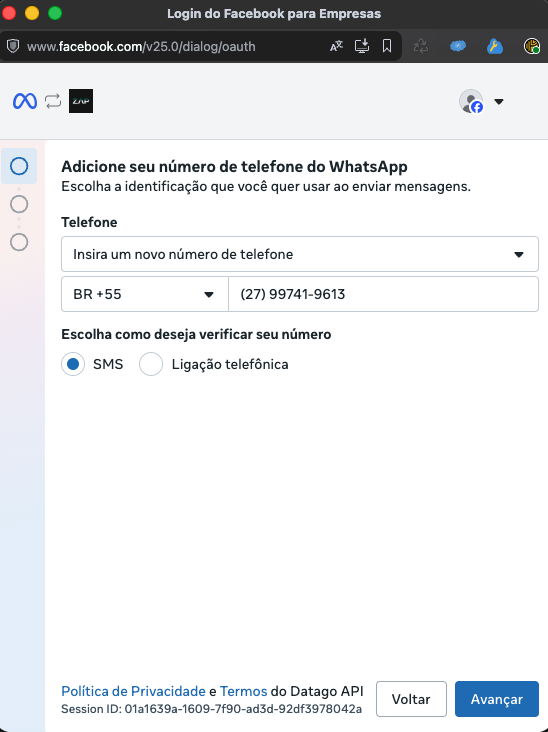
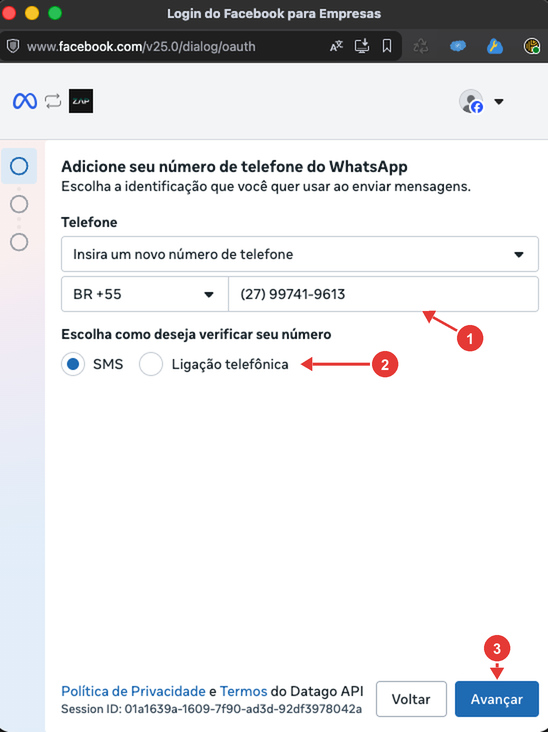
Nitzap Conexão: setas numeradas e tabelas nas imagens de QR Code, API oficial e membros

Changed region(s): [[0.5584, 0.4809, 0.7445, 0.541], [0.7755, 0.4208, 0.8996, 0.4809], [0.8686, 0.8716, 0.9307, 0.9317]]

diff --git a/docs/nitzap/conexao-whatsapp.md b/docs/nitzap/conexao-whatsapp.md
@@ -2,6 +2,8 @@
 
 Cada número de WhatsApp usado no Nitzap é uma **conexão**. Você pode conectar um número de duas formas: lendo um **QR Code** com o celular (WhatsApp Web) ou pela **API oficial da Meta**, entrando com o Facebook. Este guia mostra as duas, de onde começar e o que fazer depois que o número aparece na lista.
 
+**Como ler as imagens:** os círculos vermelhos numerados apontam para a parte da tela que está sendo explicada. O número no círculo é o mesmo da coluna **Nº** da tabela logo abaixo da imagem.
+
 <!-- sumario:inicio -->
 **Neste artigo:**
 
@@ -39,13 +41,30 @@ As duas formas de conexão abrem a mesma janela, **Adicionar conexão**. O ponto
 
    ![Menu do usuário com o link para o perfil](images/conexao-menu-perfil.png)
 
+   | Nº | O que é |
+   | :---: | --- |
+   | 1 | Sua foto: abre o menu. |
+   | 2 | Seu nome: abre o perfil. |
+
 2. No perfil, abra a aba **Nitzap Config** e depois **Conexões**.
 
    ![Perfil do usuário com a aba Nitzap Config](images/conexao-perfil-nitzap-config.png)
 
+   | Nº | O que é |
+   | :---: | --- |
+   | 1 | Aba **Nitzap Config**. |
+   | 2 | Menu **Conexões**. |
+   | 3 | Submenu **Conexões**: a lista de números. |
+   | 4 | **Adicionar conexão**. |
+
 3. Clique em **Adicionar conexão**. O contador ao lado mostra quantas conexões a organização já usa do limite contratado.
 
    ![Conexões WhatsApp e o botão Adicionar conexão](images/conexao-nitzap-config.png)
+
+   | Nº | O que é |
+   | :---: | --- |
+   | 1 | **Adicionar conexão**: abre a janela de conexão. |
+   | 2 | Conexões em uso / limite contratado. |
 
 Uma conexão criada pelo Nitzap Config começa **sem membros**. Depois de conectar, adicione quem vai atender por ela (veja [Depois de conectar](#nitzap/conexao-whatsapp/depois-de-conectar-nome-e-membros)).
 
@@ -55,6 +74,10 @@ Uma conexão criada pelo Nitzap Config começa **sem membros**. Depois de conect
 2. No cartão **Nitzap Connect**, clique em **Conectar meu WhatsApp**.
 
    ![Cartão Nitzap Connect no perfil do usuário](images/conexao-nitzap-connect.png)
+
+   | Nº | O que é |
+   | :---: | --- |
+   | 1 | **Conectar meu WhatsApp**. |
 
 Quando a conexão termina, **você entra automaticamente como membro** dela e o número passa a aparecer no cartão, em **Conexões que você participa**.
 
@@ -66,6 +89,11 @@ A janela **Adicionar conexão** pergunta como você quer conectar o número.
 
 ![Escolha entre WhatsApp (QR) e WhatsApp Business](images/conexao-tipo.png)
 
+| Nº | O que é |
+| :---: | --- |
+| 1 | **WhatsApp (QR)**: conexão pelo QR Code. |
+| 2 | **WhatsApp Business**: API oficial, pelo Facebook. |
+
 - **WhatsApp (QR):** siga a seção [Conectar via QR Code](#nitzap/conexao-whatsapp/conectar-via-qr-code).
 - **WhatsApp Business:** siga a seção [Conectar pela API oficial (Coexistência)](#nitzap/conexao-whatsapp/conectar-pela-api-oficial-coexistencia).
 
@@ -74,6 +102,11 @@ A janela **Adicionar conexão** pergunta como você quer conectar o número.
 1. Em **Escolha como conectar**, deixe **QR Code** selecionado e clique em **Gerar conexão**.
 
    ![Opção QR Code selecionada](images/conexao-qr-code.png)
+
+   | Nº | O que é |
+   | :---: | --- |
+   | 1 | **QR Code** selecionado. |
+   | 2 | **Gerar conexão**: mostra o QR Code. |
 
 2. O QR Code aparece na tela. No celular, abra o WhatsApp e vá em **Aparelhos conectados** > **Conectar aparelho**.
 3. Aponte a câmera do celular para o QR Code da tela.
@@ -91,6 +124,12 @@ Se não der para ler o QR Code, use um código de pareamento:
 
 ![Opção Código com o número com DDI](images/conexao-qr-codigo.png)
 
+| Nº | O que é |
+| :---: | --- |
+| 1 | **Código** selecionado. |
+| 2 | **Número com DDI**: só dígitos. |
+| 3 | **Gerar conexão**: mostra o código. |
+
 O Nitzap espera a leitura por até 10 minutos. Se passar disso, aparece **"Tempo esgotado aguardando a conexão"**: clique em **Gerar conexão** de novo para gerar um novo QR Code ou código.
 
 ## Conectar pela API oficial (Coexistência)
@@ -106,13 +145,28 @@ Em **Como este número é usado hoje?**, deixe selecionado **API Coex (Coexistê
 
 ![Opção API Coex (Coexistência)](images/conexao-waba-coex.png)
 
+| Nº | O que é |
+| :---: | --- |
+| 1 | **API Coex (Coexistência)** selecionado. |
+| 2 | **Entrar com Facebook**. |
+
 Abre uma janela **Conectando ao WhatsApp Business**. Mantenha essa janela aberta: ela fecha sozinha no final.
 
 ![Janela Conectando ao WhatsApp Business](images/conexao-facebook-janela.png)
 
+| Nº | O que é |
+| :---: | --- |
+| 1 | Aviso para manter a janela aberta até ela fechar sozinha. |
+
 Se o navegador bloquear o pop-up do Facebook, libere pop-ups para o site (no Chrome, clique no ícone de pop-up bloqueado na barra de endereço e escolha **Sempre permitir**) e clique no link do facebook na parte superior.
 
 ![Aviso de pop-up bloqueado no navegador](images/conexao-facebook-popup-bloqueado.png)
+
+| Nº | O que é |
+| :---: | --- |
+| 1 | Ícone de pop-up bloqueado, na barra de endereço. |
+| 2 | Link do Facebook: clique para abrir a janela. |
+| 3 | **Sempre permitir**: libera os pop-ups do site. |
 
 ### 2. Seguir os passos no Facebook
 
@@ -120,21 +174,45 @@ Se o navegador bloquear o pop-up do Facebook, libere pop-ups para o site (no Chr
 
    ![Início do cadastro no Facebook](images/conexao-facebook-inicio.png)
 
+   | Nº | O que é |
+   | :---: | --- |
+   | 1 | **Continuar**. |
+
 2. Em **Adicione seu número de telefone do WhatsApp**, informe o número que está no app WhatsApp Business, escolha como receber a verificação (**SMS** ou **Ligação telefônica**) e clique em **Avançar**.
 
    ![Número de telefone do WhatsApp](images/conexao-facebook-numero.png)
+
+   | Nº | O que é |
+   | :---: | --- |
+   | 1 | Número que está no app WhatsApp Business. |
+   | 2 | Como receber a verificação: **SMS** ou **Ligação telefônica**. |
+   | 3 | **Avançar**. |
 
 3. Em **Verifique os detalhes da sua conta**, confira o nome e a foto do perfil comercial e clique em **Avançar**. Se algo estiver errado, volte e corrija o número.
 
    ![Detalhes da conta do WhatsApp Business](images/conexao-facebook-detalhes.png)
 
+   | Nº | O que é |
+   | :---: | --- |
+   | 1 | Nome e foto do perfil comercial. |
+   | 2 | **Avançar**. |
+
 4. Em **Portfólio empresarial**, escolha o portfólio (Business Manager) da empresa e clique em **Avançar**.
 
    ![Seleção do portfólio empresarial](images/conexao-facebook-portfolio.png)
 
+   | Nº | O que é |
+   | :---: | --- |
+   | 1 | Portfólio empresarial (Business Manager) da empresa. |
+   | 2 | **Avançar**. |
+
 5. A tela **Importar contatos e histórico de conversas** mostra um QR Code para ler com o app WhatsApp Business. Deixe essa tela aberta e pegue o celular: o botão **Avançar** só é liberado depois que você confirmar no celular.
 
    ![QR Code do Facebook para ler com o app WhatsApp Business](images/conexao-facebook-qr-code.png)
+
+   | Nº | O que é |
+   | :---: | --- |
+   | 1 | QR Code para ler com o app WhatsApp Business. O **Avançar** só é liberado depois da confirmação no celular. |
 
 ### 3. Confirmar no celular
 
@@ -144,9 +222,17 @@ Ao mesmo tempo em que o QR Code aparece no Facebook, o WhatsApp Business do celu
 
    ![Mensagem do Facebook Business no WhatsApp](images/conexao-celular-mensagem.jpeg)
 
+   | Nº | O que é |
+   | :---: | --- |
+   | 1 | **Connect**, na mensagem mais recente. |
+
 2. Na tela **Conectar à Plataforma comercial**, toque em **Conectar à Plataforma comercial**.
 
    ![Tela Conectar à Plataforma comercial](images/conexao-celular-plataforma-comercial.jpeg)
+
+   | Nº | O que é |
+   | :---: | --- |
+   | 1 | **Conectar à Plataforma comercial**. |
 
 3. Escolha se quer trazer o histórico e toque em **Confirmar**:
    - **Compartilhar todas as conversas:** traz até 6 meses de histórico das conversas individuais. Histórico de grupos não é compartilhado.
@@ -154,13 +240,27 @@ Ao mesmo tempo em que o QR Code aparece no Facebook, o WhatsApp Business do celu
 
    ![Escolha de compartilhar o histórico de conversas](images/conexao-celular-historico.jpeg)
 
+   | Nº | O que é |
+   | :---: | --- |
+   | 1 | **Compartilhar todas as conversas**. |
+   | 2 | **Não compartilhar conversas**. |
+   | 3 | **Confirmar**. |
+
 4. Aguarde. A conexão pode levar até 45 segundos.
 
    ![Conectando a conta no celular](images/conexao-celular-conectando.jpeg)
 
+   | Nº | O que é |
+   | :---: | --- |
+   | 1 | Conectando: pode levar até 45 segundos. |
+
 5. Quando aparecer **Sua conta está conectada à empresa Datago Tecnologia**, toque em **OK**.
 
    ![Conta conectada à Datago Tecnologia no celular](images/conexao-celular-conectado.jpeg)
+
+   | Nº | O que é |
+   | :---: | --- |
+   | 1 | **OK**. |
 
 Para manter a coexistência ativa, **abra o app WhatsApp Business no celular pelo menos uma vez a cada 14 dias**. A conexão pode ser gerenciada no app em **Configurações** > **Conta** > **Plataforma comercial**.
 
@@ -172,13 +272,27 @@ Volte para a janela do Facebook no computador e clique em **Avançar** na tela d
 
    ![Nome da conta do WhatsApp Business e fuso horário](images/conexao-facebook-conta-waba.png)
 
+   | Nº | O que é |
+   | :---: | --- |
+   | 1 | **Nome da conta** do WhatsApp Business. |
+   | 2 | **Fuso horário**. |
+   | 3 | **Avançar**. |
+
 2. Em **Reveja o que você vai compartilhar com Datago API**, confira a empresa, a conta do WhatsApp e as permissões e clique em **Confirmar**.
 
    ![Permissões solicitadas pela Datago API](images/conexao-facebook-permissoes.png)
 
+   | Nº | O que é |
+   | :---: | --- |
+   | 1 | **Confirmar**. |
+
 3. Na tela **Sua conta está conectada a Datago Tecnologia**, clique em **Concluir**. A forma de pagamento da Meta pode ser cadastrada depois.
 
    ![Conta conectada à Datago Tecnologia no Facebook](images/conexao-facebook-concluido.png)
+
+   | Nº | O que é |
+   | :---: | --- |
+   | 1 | **Concluir**. A forma de pagamento pode ser cadastrada depois. |
 
 Aguarde a janela do Facebook fechar e o número aparece na lista de conexões com a etiqueta **Coex (Meta)**.
 
@@ -188,18 +302,22 @@ O caminho é o mesmo: selecione **API Cloud (só API oficial)** e clique em **En
 
 ![Opção API Cloud (só API oficial)](images/conexao-waba-cloud.png)
 
+| Nº | O que é |
+| :---: | --- |
+| 1 | **API Cloud (só API oficial)** selecionado. |
+| 2 | **Entrar com Facebook**. |
+
 ## Depois de conectar: nome e membros
 
 A conexão nova aparece em **Nitzap Config** > **Conexões**, identificada pelo número.
 
 ![Lista de conexões com a conexão nova](images/conexao-lista.png)
 
-Cada conexão tem dois botões:
-
-| Botão | O que faz |
-| --- | --- |
-| **Engrenagem** (⚙) | Abre **Gerenciar conexão**, onde você dá nome à conexão e adiciona membros. |
-| **Lixeira** | Remove a conexão. O Nitzap pede confirmação antes. Ao confirmar, o WhatsApp é desconectado e **todos os membros saem da conexão**. Para usar o número de novo, será preciso conectá-lo do zero, com um novo QR Code ou um novo login no Facebook. |
+| Nº | O que é |
+| :---: | --- |
+| 1 | A conexão nova, com o número e o tipo (aqui, **Coex (Meta)**). |
+| 2 | **Engrenagem** (⚙): abre **Gerenciar conexão**, onde você dá nome à conexão e adiciona membros. |
+| 3 | **Lixeira**: remove a conexão. O Nitzap pede confirmação antes. Ao confirmar, o WhatsApp é desconectado e **todos os membros saem da conexão**. Para usar o número de novo, será preciso conectá-lo do zero, com um novo QR Code ou um novo login no Facebook. |
 
 Clique na engrenagem (⚙) para continuar.
 
@@ -216,9 +334,22 @@ Os membros são os usuários do Salesforce que atendem por essa conexão.
 
 ![Gerenciar conexão: nome e busca de usuário](images/conexao-gerenciar-membros.png)
 
+| Nº | O que é |
+| :---: | --- |
+| 1 | **Nome da conexão**. |
+| 2 | **Salvar nome**. |
+| 3 | Aba **Membros**. |
+| 4 | **Adicionar usuário**: busque pelo nome. |
+| 5 | **Adicionar**. |
+| 6 | **Reconectar** (veja [Reconectar](#nitzap/conexao-whatsapp/reconectar)). |
+
 O usuário aparece na lista de membros. Repita para cada pessoa que vai usar o número.
 
 ![Membro adicionado à conexão](images/conexao-membro-adicionado.png)
+
+| Nº | O que é |
+| :---: | --- |
+| 1 | Membro adicionado à conexão. |
 
 ### Reconectar
 
@@ -248,8 +379,6 @@ Uma conexão pela **API oficial com Coexistência** pode ter também um **canal 
 **Atenção:** o canal vinculado usa o WhatsApp por um caminho que não é o oficial da Meta. Esse uso é por conta e risco da empresa.
 
 O canal vinculado só aparece em conexões **Coexistência**. Não aparece nas conexões só QR Code nem nas **API Cloud (só API oficial)**, porque o número da API Cloud não existe mais no celular.
-
-**Como ler as imagens:** os círculos vermelhos numerados apontam para a parte da tela que está sendo explicada. O número no círculo é o mesmo da coluna **Nº** da tabela logo abaixo da imagem.
 
 ### 1. Vincular o número pelo QR Code
 
